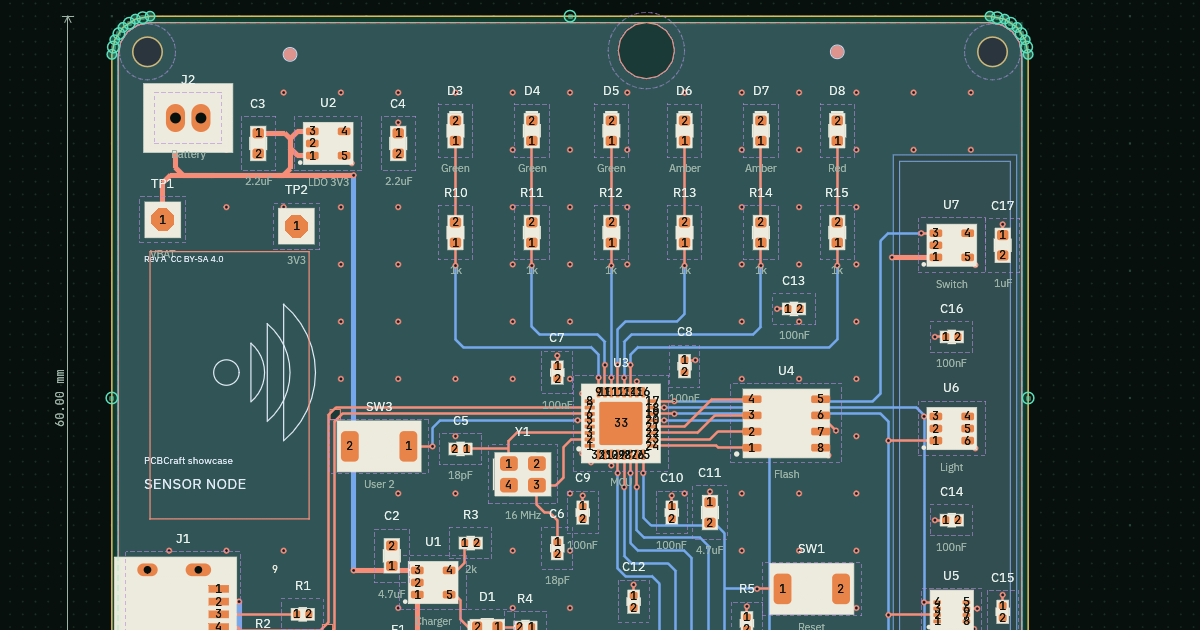
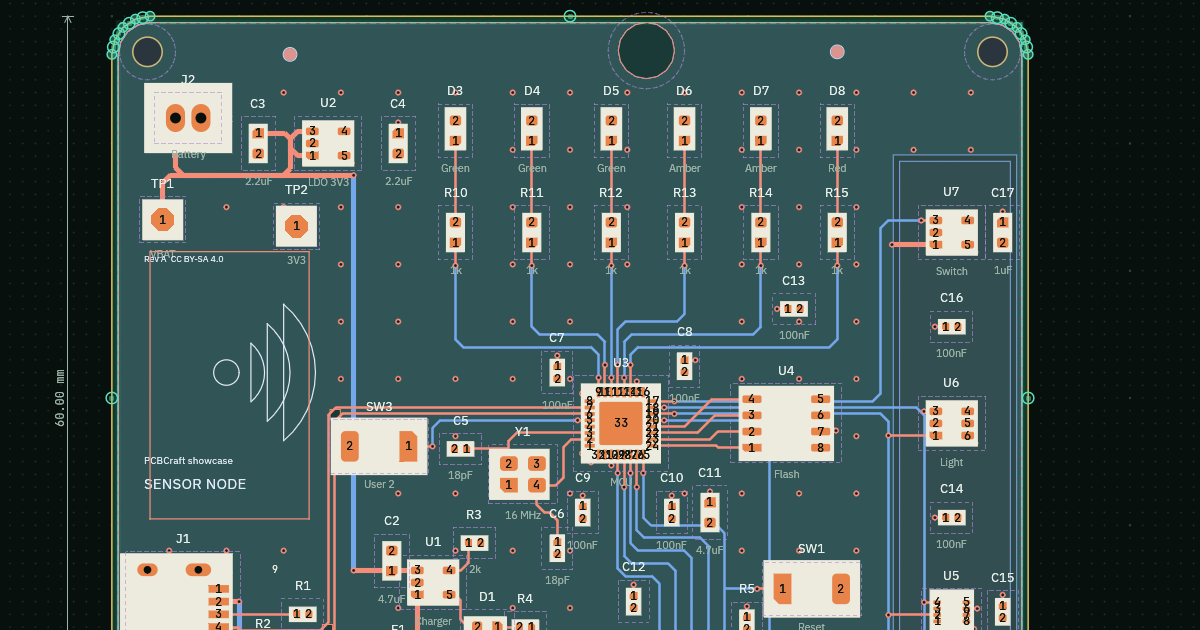
Site: recapture screenshots on the clean showcase with the new tab order
Recapture every site and guide image from current main (Library is the last tab, the showcase
board shows 0 errors and 0 warnings). Fix the crops for the schematic and layout product
images, and update the guide text that was out of date: the tab list, the route layer step
(no Corners switch), the Library view buttons, the Layers tree sublayer names and the
schematic tool strip.

diff --git a/site/src/content/docs/docs/guide/layers-tree.md b/site/src/content/docs/docs/guide/layers-tree.md
@@ -14,11 +14,11 @@ Open the sample with `cargo run -p pcbcraft -- --sample`. Click the **Layout** t
 ## Read the tree
 
 1. Find **Board** at the top. It shows the board size, 60 x 40 mm.
-2. Find **Layer 1 · Top** and **Layer 2 · Bottom**. Each side has sublayers: Copper, Solder mask, Silkscreen, Paste and Components.
-3. Open **Copper** on the top side. The nets GND, LED and VCC are listed under it.
+2. Find **Layer 1 · Top** and **Layer 2 · Bottom**. Each side has sublayers: Tracks, Solder mask, Silkscreen, Paste and Pads.
+3. Open **Tracks** on the top side. The nets GND, LED and VCC are listed under it.
 4. Scroll down for **Board edge**, **User layers** and **Parts**.
 
-   ![The Layers tree on the Layout tab. Board is 60 x 40 mm. Layer 1 Top and Layer 2 Bottom each list Copper, Solder mask, Silkscreen, Paste and Components. Board edge and Parts follow.](../../../../assets/guide/layers-tree.png)
+   ![The Layers tree on the Layout tab. Board is 60 x 40 mm. Layer 1 Top and Layer 2 Bottom each list Tracks, Solder mask, Silkscreen, Paste and Pads. Board edge and Parts follow.](../../../../assets/guide/layers-tree.png)
 
 The number on each row counts the items on it. The arrow at the left of a row opens or closes it.
 

diff --git a/site/src/content/docs/docs/guide/draw-schematic.md b/site/src/content/docs/docs/guide/draw-schematic.md
@@ -14,12 +14,10 @@ Open the sample with `cargo run -p pcbcraft -- --sample` and stay on the **Schem
 ## Pick a tool
 
 1. Look at the tool strip under the tabs.
-2. The tools are **Select**, **Move**, **Place part**, **Wire**, **No connect** and **Measure**.
+2. The tools are **Select**, **Move**, **Place part**, **Wire**, **Label**, **Power**, **Bus**, **No connect**, **Port** and **Measure**.
 3. Hover a tool to read what it does. The active tool is outlined.
 
-   ![The schematic tool strip. Select is active. Move, Place part, Wire, No connect and Measure follow, then the pick filters Parts, Copper, Graphics and Text.](../../../../assets/guide/schematic-tools.png)
-
-4. The buttons **Parts**, **Copper**, **Graphics** and **Text** decide what a click may pick up. Turn one off to leave that kind alone.
+   ![The schematic tool strip. Select is active. Move, Place part, Wire, Label, Power, Bus, No connect, Port and Measure follow.](../../../../assets/guide/schematic-tools.png)
 
 Press **Esc** at any time to go back to Select.
 

diff --git a/site/src/content/docs/docs/guide/getting-started.md b/site/src/content/docs/docs/guide/getting-started.md
@@ -30,10 +30,10 @@ If you run the app without `--sample`, the Start screen opens first. Pick **Work
 ## Read the top of the window
 
 1. Look at the menus at the top left: File, Edit, View and Help.
-2. Look at the row below them. The tabs are Files, Library, Schematic, Layout and Manufacture.
+2. Look at the row below them. The tabs are Files, Schematic, Layout, Manufacture and Library.
 3. Click **Layout** to see the board.
 
-   ![The top of the window. The menus are File, Edit, View and Help. The tabs are Files, Library, Schematic, Layout and Manufacture, and Schematic is selected.](../../../../assets/guide/start-tabs.png)
+   ![The top of the window. The menus are File, Edit, View and Help. The tabs are Files, Schematic, Layout, Manufacture and Library, and Schematic is selected.](../../../../assets/guide/start-tabs.png)
 
 The board is 60 by 40 mm and holds the same three parts. Dashed lines join the pads that must be connected. No copper is drawn yet. Use **Schematic** to go back.
 

diff --git a/site/src/content/docs/docs/guide/route-board.md b/site/src/content/docs/docs/guide/route-board.md
@@ -18,10 +18,9 @@ Open the sample with `cargo run -p pcbcraft -- --sample`. Click the **Layout** t
 
    ![The board on the Layout tab. J1, R1 and D1 sit on a 60 by 40 mm outline. Dashed lines labelled VCC, LED and GND join their pads.](../../../../assets/guide/board-unrouted.png)
 
-## Pick the layer and the corners
+## Pick the layer
 
-1. In the Layers tree, find **Copper** under **Layer 1 · Top**. It carries the **Active** tag, so new tracks go on the top side.
-2. Look at the **Corners** switch at the right end of the tool strip. **45** cuts corners at 45 degrees. **90** keeps them square.
+1. In the Layers tree, find **Tracks** under **Layer 1 · Top**. It carries the **Active** tag, so new tracks go on the top side.
 
 The status strip shows the active layer, for example Layer 1 of 2 · Top copper. On the **Preferences** page the **Route on** entry also picks Top or Bottom.
 

diff --git a/site/src/content/docs/docs/guide/saving.md b/site/src/content/docs/docs/guide/saving.md
@@ -17,7 +17,7 @@ Open the sample with `cargo run -p pcbcraft -- --sample` and make a change, for 
 2. Pick **Save**. The tip reads: write the design to its file on disk.
 3. Or press **Ctrl+S**.
 
-   ![The top left of the window. File, Edit, View and Help sit beside the PCBCraft name. Below them are the tabs Files, Library, Schematic, Layout and Manufacture, with Layout selected.](../../../../assets/guide/save-menubar.png)
+   ![The top left of the window. File, Edit, View and Help sit beside the PCBCraft name. Below them are the tabs Files, Schematic, Layout, Manufacture and Library, with Layout selected.](../../../../assets/guide/save-menubar.png)
 
 The status strip tells you what happened. Saving again replaces the file with the current design.
 

diff --git a/site/src/content/docs/docs/guide/place-parts.md b/site/src/content/docs/docs/guide/place-parts.md
@@ -18,7 +18,7 @@ Open the sample with `cargo run -p pcbcraft -- --sample`. The Schematic tab open
 
    ![The Library tab. Built-in parts are listed: Resistor, LED, Capacitor, 2-pin connector and Protection diode. Above them are a search box, three view buttons and a row of filter icons.](../../../../assets/guide/library-cards.png)
 
-3. Choose what the cards show with **Symbols**, **Footprints** or **Both**. On the Layout tab the Library shows footprints.
+3. Choose what the cards show with the three buttons under the search box. Hover each one for its name: **Symbols**, **Footprints** or **Both**. On the Layout tab the Library shows footprints.
 
 ## Narrow the list
 

diff --git a/site/src/assets/screens/MANIFEST.md b/site/src/assets/screens/MANIFEST.md
@@ -6,7 +6,7 @@ Every image is a crop of a real capture of the PCBCraft app (cargo xtask screens
 | Image | Capture | Size (px) |
 |---|---|---|
 | hero-layout | layout-sheet | 1920 x 1240 |
-| home-schematic | schematic | 1260 x 788 |
+| home-schematic | schematic | 1160 x 790 |
 | home-layout | layout | 1260 x 788 |
 | layout-routed | showcase-layout | 1250 x 830 |
 | home-libraries | layout-library | 960 x 600 |
